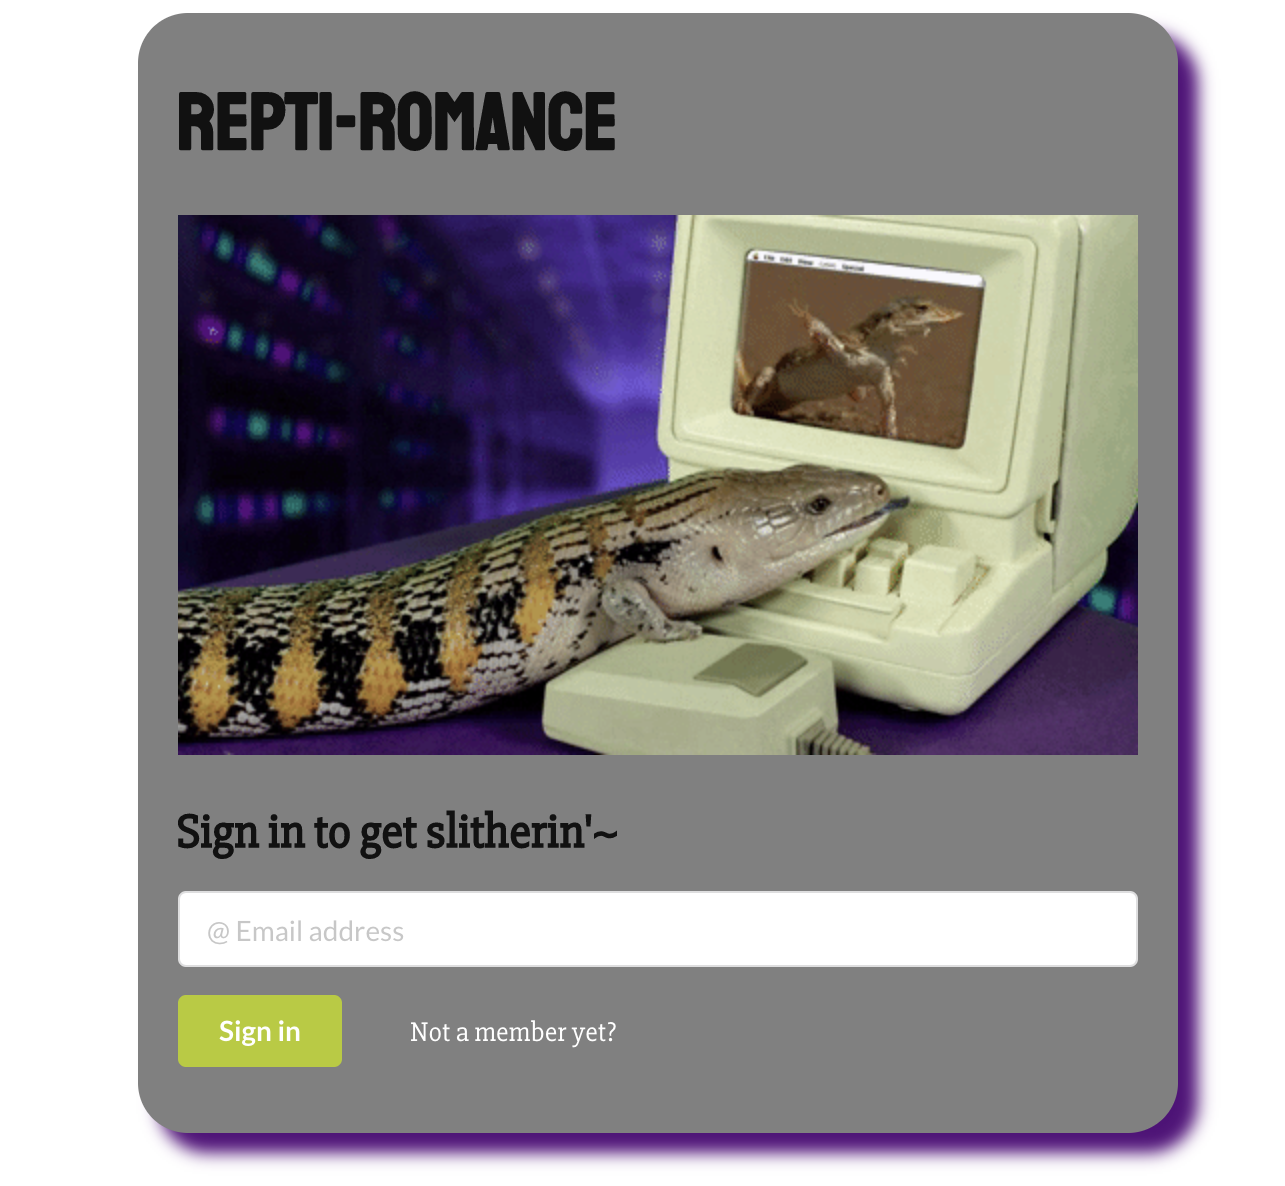
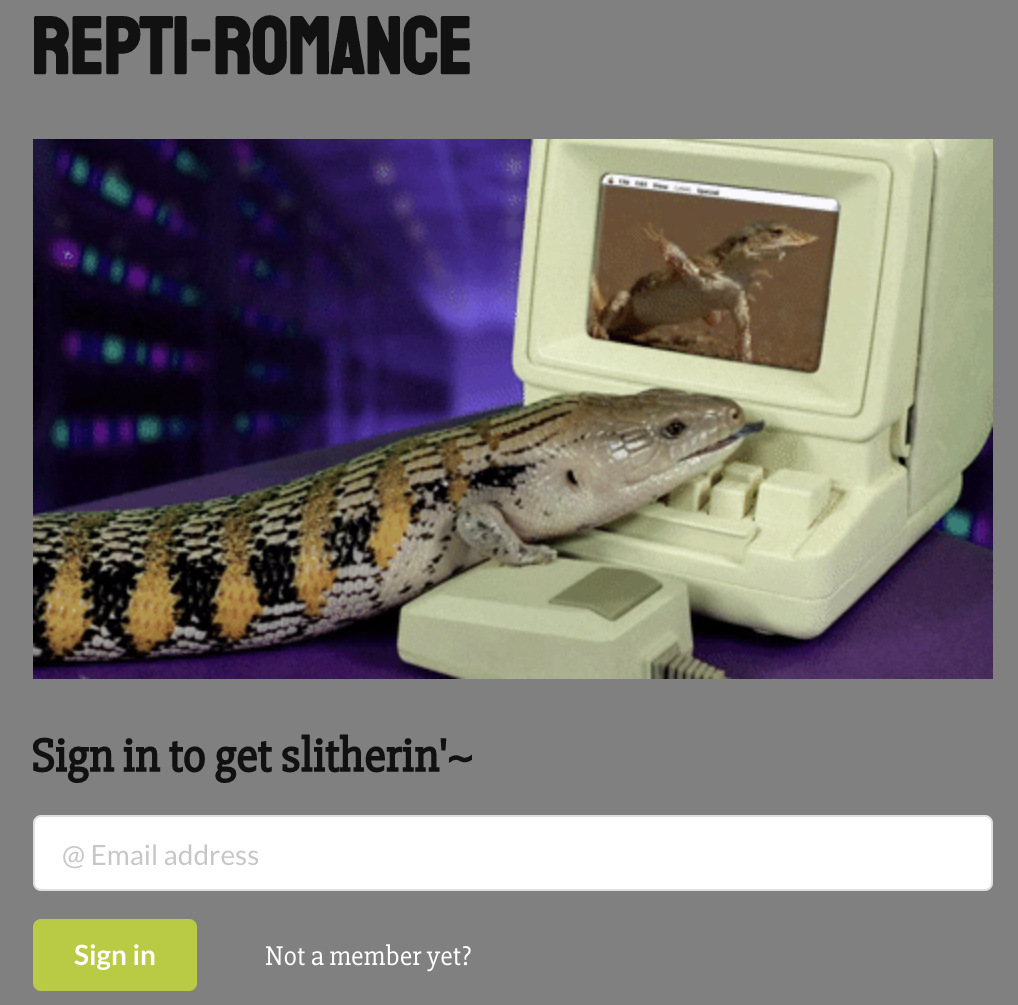
totally responsive in resizing for mobile now. also added reptiromance case study

diff --git a/src/Components/Work/ReptiRomance.js b/src/Components/Work/ReptiRomance.js
@@ -1,0 +1,47 @@
+import React from "react";
+import ERD from "./work-imgs/repti-ERD.png"
+import outline from "./work-imgs/repti-outline.png"
+import papi from "./work-imgs/papi.jpeg"
+import "./Work.css"
+
+export const ReptiRomanceCaseStudy = props => {
+    return (
+        <>
+            <div className="caseStudy">
+                <h2>Repti-Romance</h2>
+                <b>Repti-Romance Case Study</b>
+                    <p>
+                    Overview: 
+                    Repti-Romance is a silly tinder-esque messaging & dating app designed for reptilians to meet. The purpose of this Capstone project was to show that I could manage an API/local database and implement CRUD: create, read, update & delete. 
+                    </p>
+                    <p>
+                    
+                    With the rise of COVID-19, pet reptiles can not depend on their humans to be around forever. Repti-Romance was created to be launched in 2030 when reptiles will inevitably rule as the main sentient species on Earth. This app is important for the future of lizard mingling and conversing.
+                    </p>
+                    <p>
+                    
+                    The user is any and all reptiles or amphibians. We expect that these creatures will have no problem messaging each other without human supervision.  
+                    </p>
+                    <img src={ERD} width="50%"></img>
+                    <img src={outline} width="50%"></img>
+                    <p>
+                    
+                    I planned, created, designed and built this app solo in two weeks. I began by creating an ERD, wireframe and an outline of the data & components. 
+                    </p>
+                    <p>
+                    
+                    The biggest constraint I faced was the two week time limit. I had less than 3 months of formal Javascript instruction and not even two weeks of using React. This was the first app I created and coded by myself. 
+                    </p>
+                    <p>
+                    
+                    I started off by planning out my app. The “matching” component seemed like it would be the trickiest to execute. I created a database of reptile users that the logged in lizard could swipe through. The database includes the name of the reptile, their species, what they’re looking for & their about me bio. I couldn’t technically do any user testing since reptiles (as we know them) can’t type. I considered my users by implementing a magnifying glass when hovering over photos - for the lizards with poor vision. Saving messages in the database in a way that both matches could view them was a tough challenge and what I spent most time working through.  
+                    </p>
+                    <p>
+                    
+                    In the end, I am very proud of how my app turned out. Picking a goofy concept definitely helped me keep my head in the game. I learned a lot about javascript, React and my own ability to work through tricky coding problems. I tackled complicated user-to-user data relationships for the first time. Users can scroll through potential matches, mutually match and message each other. I used CRUD in the messaging component where you can send, edit and delete messages. In V2 of Repti-Romance, I would create a ‘negative match’ part of the match database. This is so if the user clicks “pass” instead of “match” the potential match would no longer show up again. Currently when the user clicks “pass”, the app shows you the next user but would still show who you “passed” on when you refresh the page. 
+                    </p>
+                    <img src={papi} width="50%"></img>
+            </div>
+        </>
+    );
+};

diff --git a/src/Components/Work/Work.js b/src/Components/Work/Work.js
@@ -1,20 +1,22 @@
 import React from "react";
-// import { Link } from "react-router-dom";
+import { Link } from "react-router-dom";
 import work1 from "./work-imgs/ReptiRomance.png"
-import {Card, Icon, Image} from 'semantic-ui-react'
+
 import "./Work.css"
+import {Card, Icon, Image} from 'semantic-ui-react'
 
 export const Work = props => {
     return (
         <>
             <div className="workSection">
                 <h2>Recent Work</h2>
-                <div className="wordCards">
+                <div className="workCards">
                     <Card>
                     <Image className="workBox" src={work1} wrapped ui={false}></Image>
                         <Card.Content>
                             <Card.Header>Repti-Romance</Card.Header>
                             <Card.Description>October 2020 Capstone</Card.Description>
+                            <Link to="/reptiromance">Read more!</Link>
                         </Card.Content>
                     </Card>
                 </div>

diff --git a/src/Components/Work/Work.css b/src/Components/Work/Work.css
@@ -6,10 +6,39 @@
     align-self: center;
     margin-left: auto;
     margin-right: auto;
+    padding: 1em; 
+}
+
+@media only screen and (max-width: 400px) {
+    .workSection {
+        font-family: 'Oswald', sans-serif;
+        background-color: white;
+        width: 330px;
+        height: auto;
+        align-self: center;
+        margin-left: auto;
+        margin-right: auto;
+        padding: 1em; 
+    }
+}
+
+.caseStudy {
+    font-family: 'Oswald', sans-serif;
+    background-color: white;
+    width: 800px;
+    height: auto;
+    align-self: center;
+    margin-left: auto;
+    margin-right: auto;
     padding: 1em;
 }
 
-/* .workBox {
-    width: 250px;
-    height: auto
-} */
+@media only screen and (max-width: 400px) {
+    .caseStudy {
+        width: 330px;
+    }
+}
+
+.header {
+    font-family: 'Oswald', sans-serif !important;
+}

diff --git a/src/Components/NavBar/NavBar.css b/src/Components/NavBar/NavBar.css
@@ -1,6 +1,8 @@
 .navbar {
     margin: 0;
-    padding: 0
+    padding-bottom: 20px;
+    display: flex;
+    justify-content: center;
 }
 
 .headerimg{
@@ -9,6 +11,23 @@
     margin-right: auto;
     width: 50%;
 }
+
+@media only screen and (max-width: 400px) {
+    .headerimg
+        {
+            width: 100%;
+        }
+    
+    .navbar__item{
+        margin-left: 0em;
+        margin-right: 0em;
+    }
+
+    .nav-choices{
+        width: 70%
+    }
+}
+
 
 .navtext{
     font-weight: 100;
@@ -32,6 +51,8 @@ a:link {
     display: flex;
     flex-flow: row nowrap;
     justify-content: center;
+    align-items: center;
+    width: 100%
 }
 
 .navbar__item{

diff --git a/src/App.js b/src/App.js
@@ -3,6 +3,7 @@
 import React from "react";
 import { Route } from "react-router-dom"
 import { Work } from "./Components/Work/Work"
+import { ReptiRomanceCaseStudy } from "./Components/Work/ReptiRomance"
 import { About } from "./Components/About/About"
 import { Contact } from "./Components/Contact/Contact"
 //import all of the providers /lists + forms 
@@ -12,6 +13,10 @@ export const ApplicationViews = props => {
         <>
             <Route exact path='/'>
                 <Work/>
+            </Route>
+
+            <Route exact path='/reptiromance'>
+                <ReptiRomanceCaseStudy/>
             </Route>
 
             <Route exact path='/about'>

diff --git a/src/Components/Footer/Footer.js b/src/Components/Footer/Footer.js
@@ -14,7 +14,8 @@ export const Footer = props => {
                 <a target="_blank" href="mailto:hrissolo@gmail.com?"><img className="footerIcon" src={iconGmail} alt="Gmail"/></a>
                 <a target="_blank" href="https://www.linkedin.com/in/haileyrissolo/"><img className="footerIcon" src={iconLinkedin} alt="LinkedIn"/></a>
                 </section>
-                Hailey Rissolo 2020 | hrissolo@gmail.com 
+                <section className="footerText">Hailey Rissolo 2020 | hrissolo@gmail.com 
+                </section>
             </div>
         </>
     );

diff --git a/src/Components/About/About.css b/src/Components/About/About.css
@@ -6,6 +6,7 @@
 .techStack {
     font-family: 'Oswald', sans-serif;
     font-weight: 300;
+    padding-top: 30px
 }
 
 .about {
@@ -16,10 +17,19 @@
     align-self: center;
     margin-left: auto;
     margin-right: auto;
-
+    font-size: 20px;
     display: flex;
     flex-wrap: wrap;
     justify-content: space-evenly;
+}
+
+@media only screen and (max-width: 400px) {
+    .about {
+        width: 330px;
+        display:block;
+    }
+
+
 }
 
 .me{

diff --git a/src/Components/Footer/Footer.css b/src/Components/Footer/Footer.css
@@ -5,9 +5,22 @@
     height: auto;
     margin-left: auto;
     margin-right: auto;
-    padding: 1em;
+    padding: 1em; }
     /* align-items: baseline */
+
+
+@media only screen and (max-width: 400px) {
+    .footerSection{
+        width: 330px;
+    }
 }
+
+@media only screen and (max-width: 400px) {
+    .footerText {
+        text-align: center;
+    }
+}
+
 
 /* //icon image size */
 .footerIcon {

diff --git a/src/Components/About/About.js b/src/Components/About/About.js
@@ -14,8 +14,8 @@ export const About = props => {
             </div>
 
             <div className="techStack">
-                <h2>Tech Stack</h2>
-                <p><ul><li>Javascript</li>
+                <p><h2>Tech Stack</h2>
+                <ul><li>Javascript</li>
                     <li>HTML5 + CSS3 </li>
                     <li>React </li>
                     <li>Adobe Photoshop</li>

diff --git a/src/index.css b/src/index.css
@@ -3,7 +3,7 @@
 body {
   margin: 0;
   font-family: -apple-system, BlinkMacSystemFont, 'Segoe UI', 'Roboto', 'Oxygen',
-    'Ubuntu', 'Cantarell', 'Fira Sans', 'Droid Sans', 'Helvetica Neue',
+    'Ubuntu', 'Cantarell', 'Fira Sans', 'Droid Sans',
     sans-serif;
   -webkit-font-smoothing: antialiased;
   -moz-osx-font-smoothing: grayscale;

diff --git a/src/Components/Contact/Contact.js b/src/Components/Contact/Contact.js
@@ -8,6 +8,8 @@ export const Contact = props => {
         <section id="contactBox">
             <div className="contactSection">
                 <h2>Contact</h2>
+                <p className="thnx">Thanks for checking out my portfolio! </p>
+                
             </div>
         </section>
         </>

diff --git a/src/Components/Contact/Contact.css b/src/Components/Contact/Contact.css
@@ -10,4 +10,15 @@
     margin-left: auto;
     margin-right: auto;
     padding: 1em;
+    font-size: 20px;
+}
+
+@media only screen and (max-width: 400px) {
+    #contactBox {
+        width: 330px;
+    }
+}
+
+.thnx {
+    text-align: center
 }
